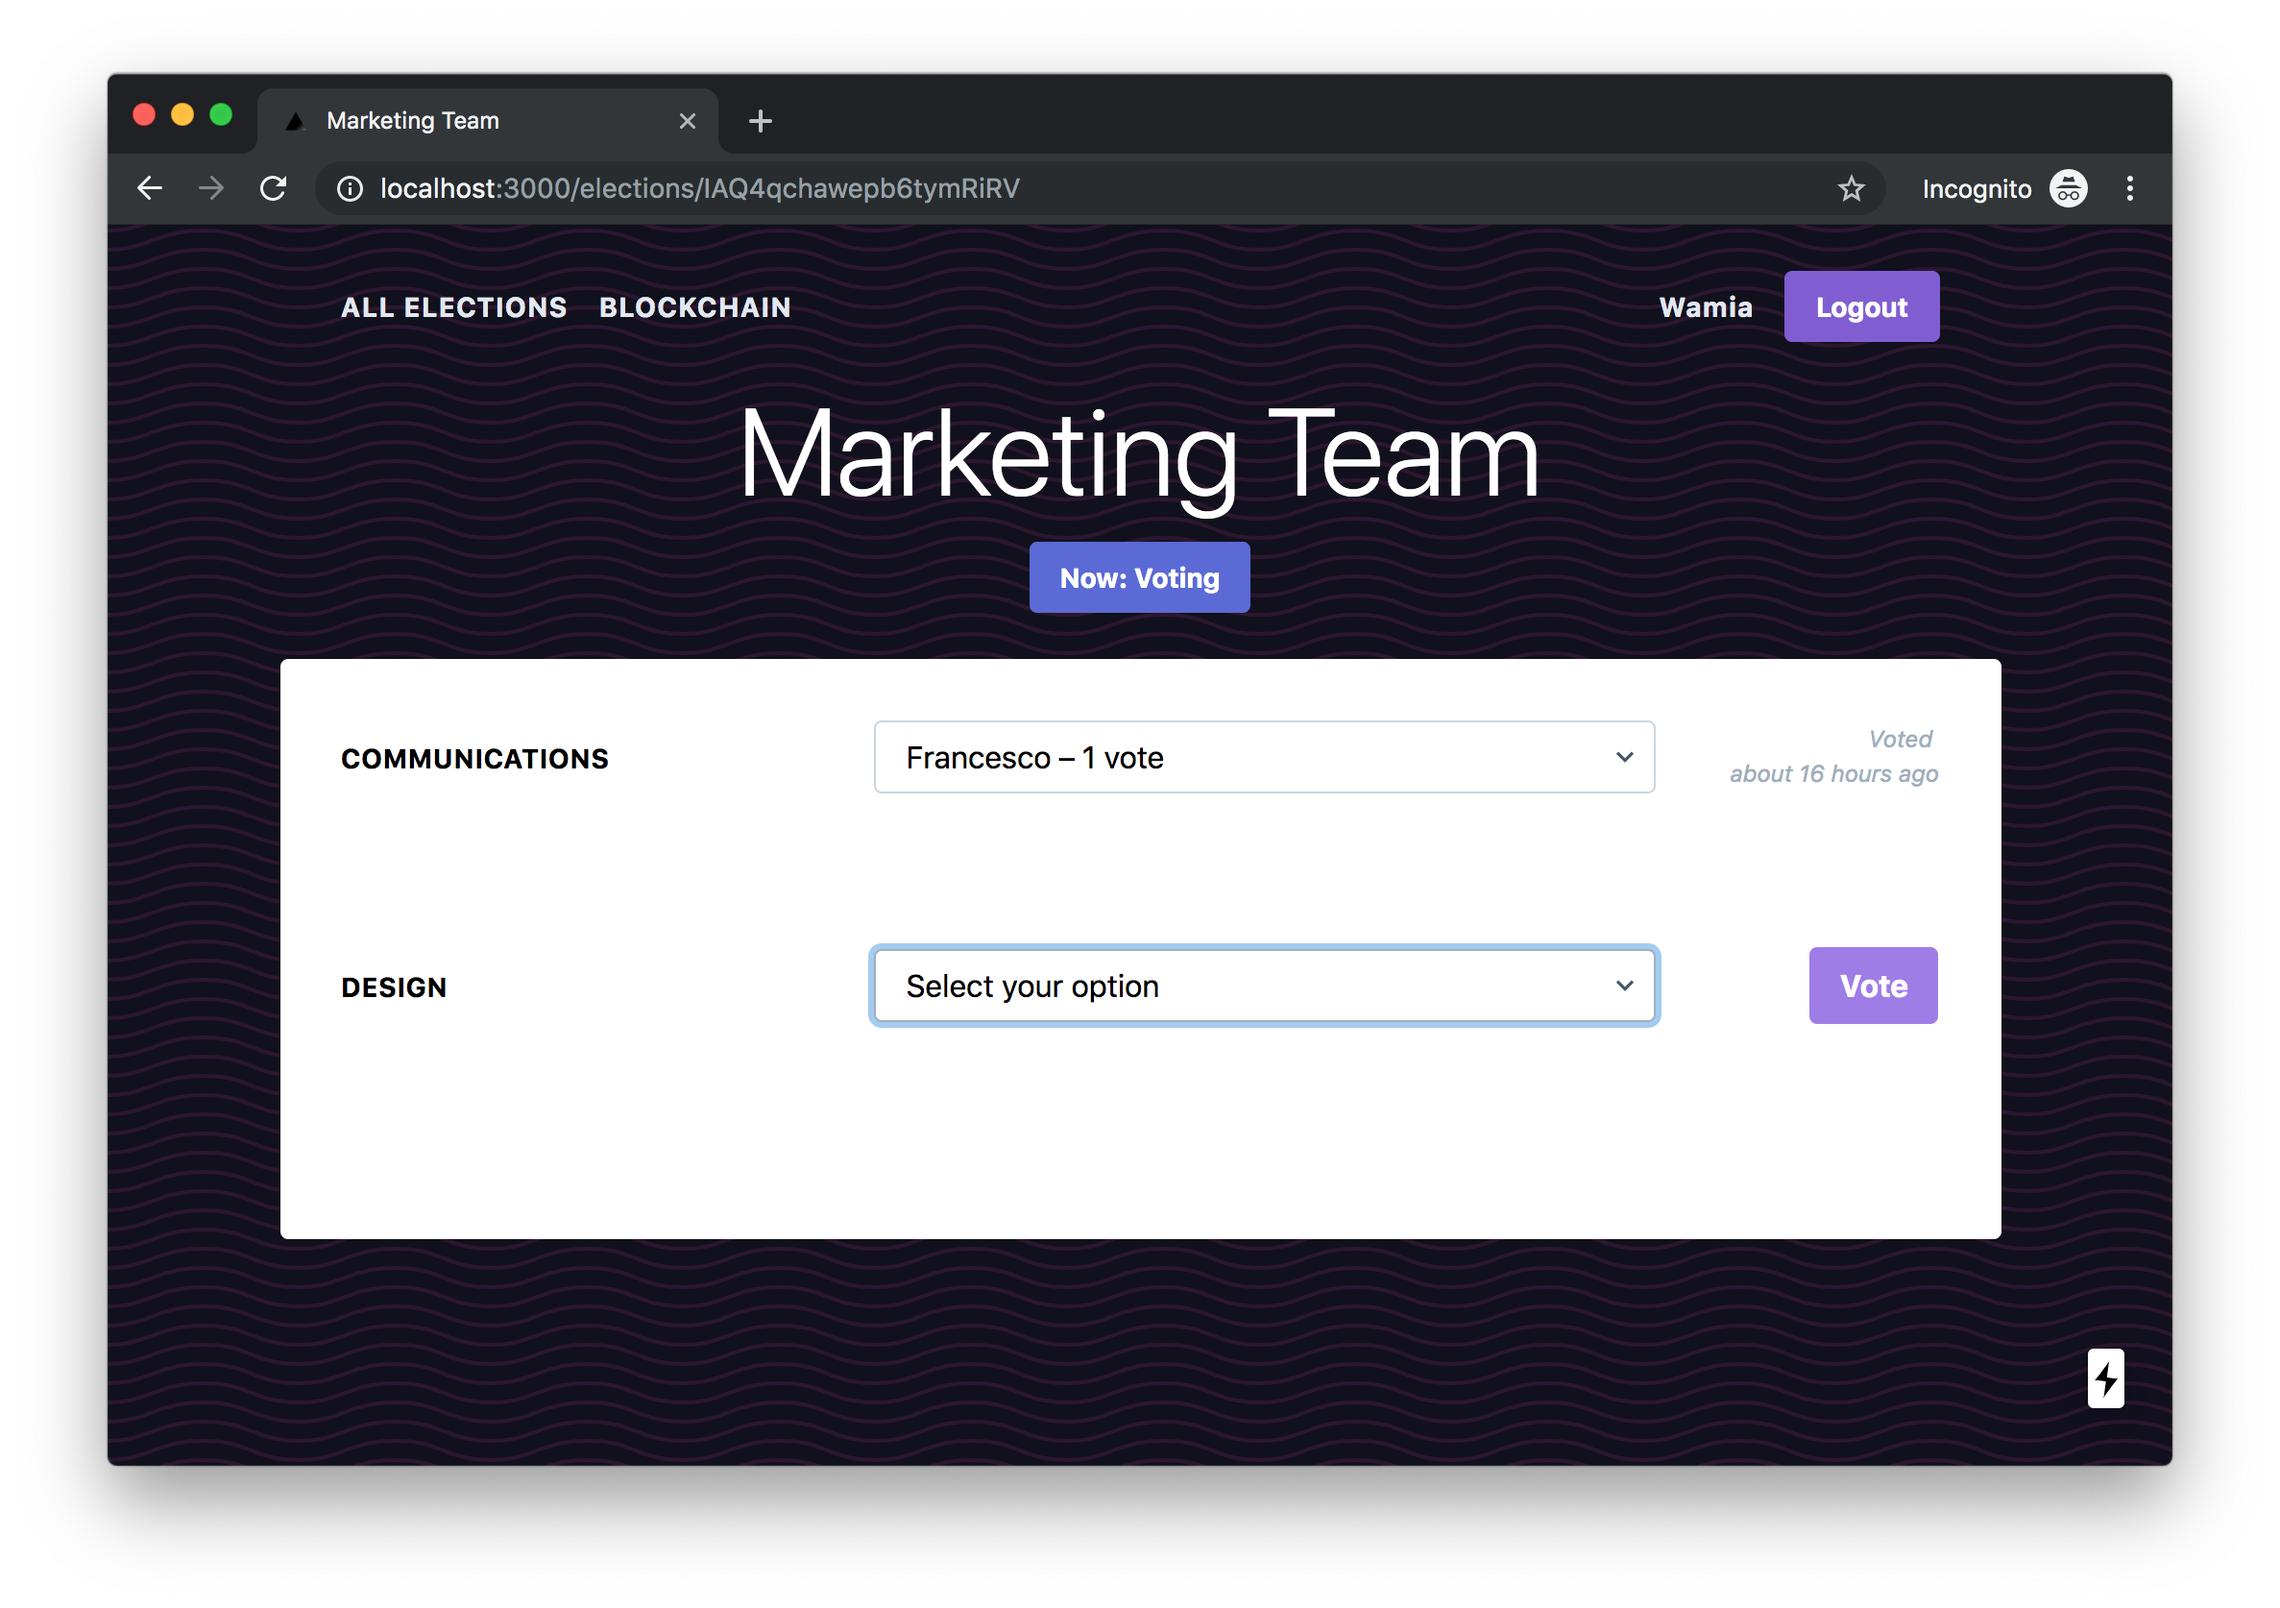
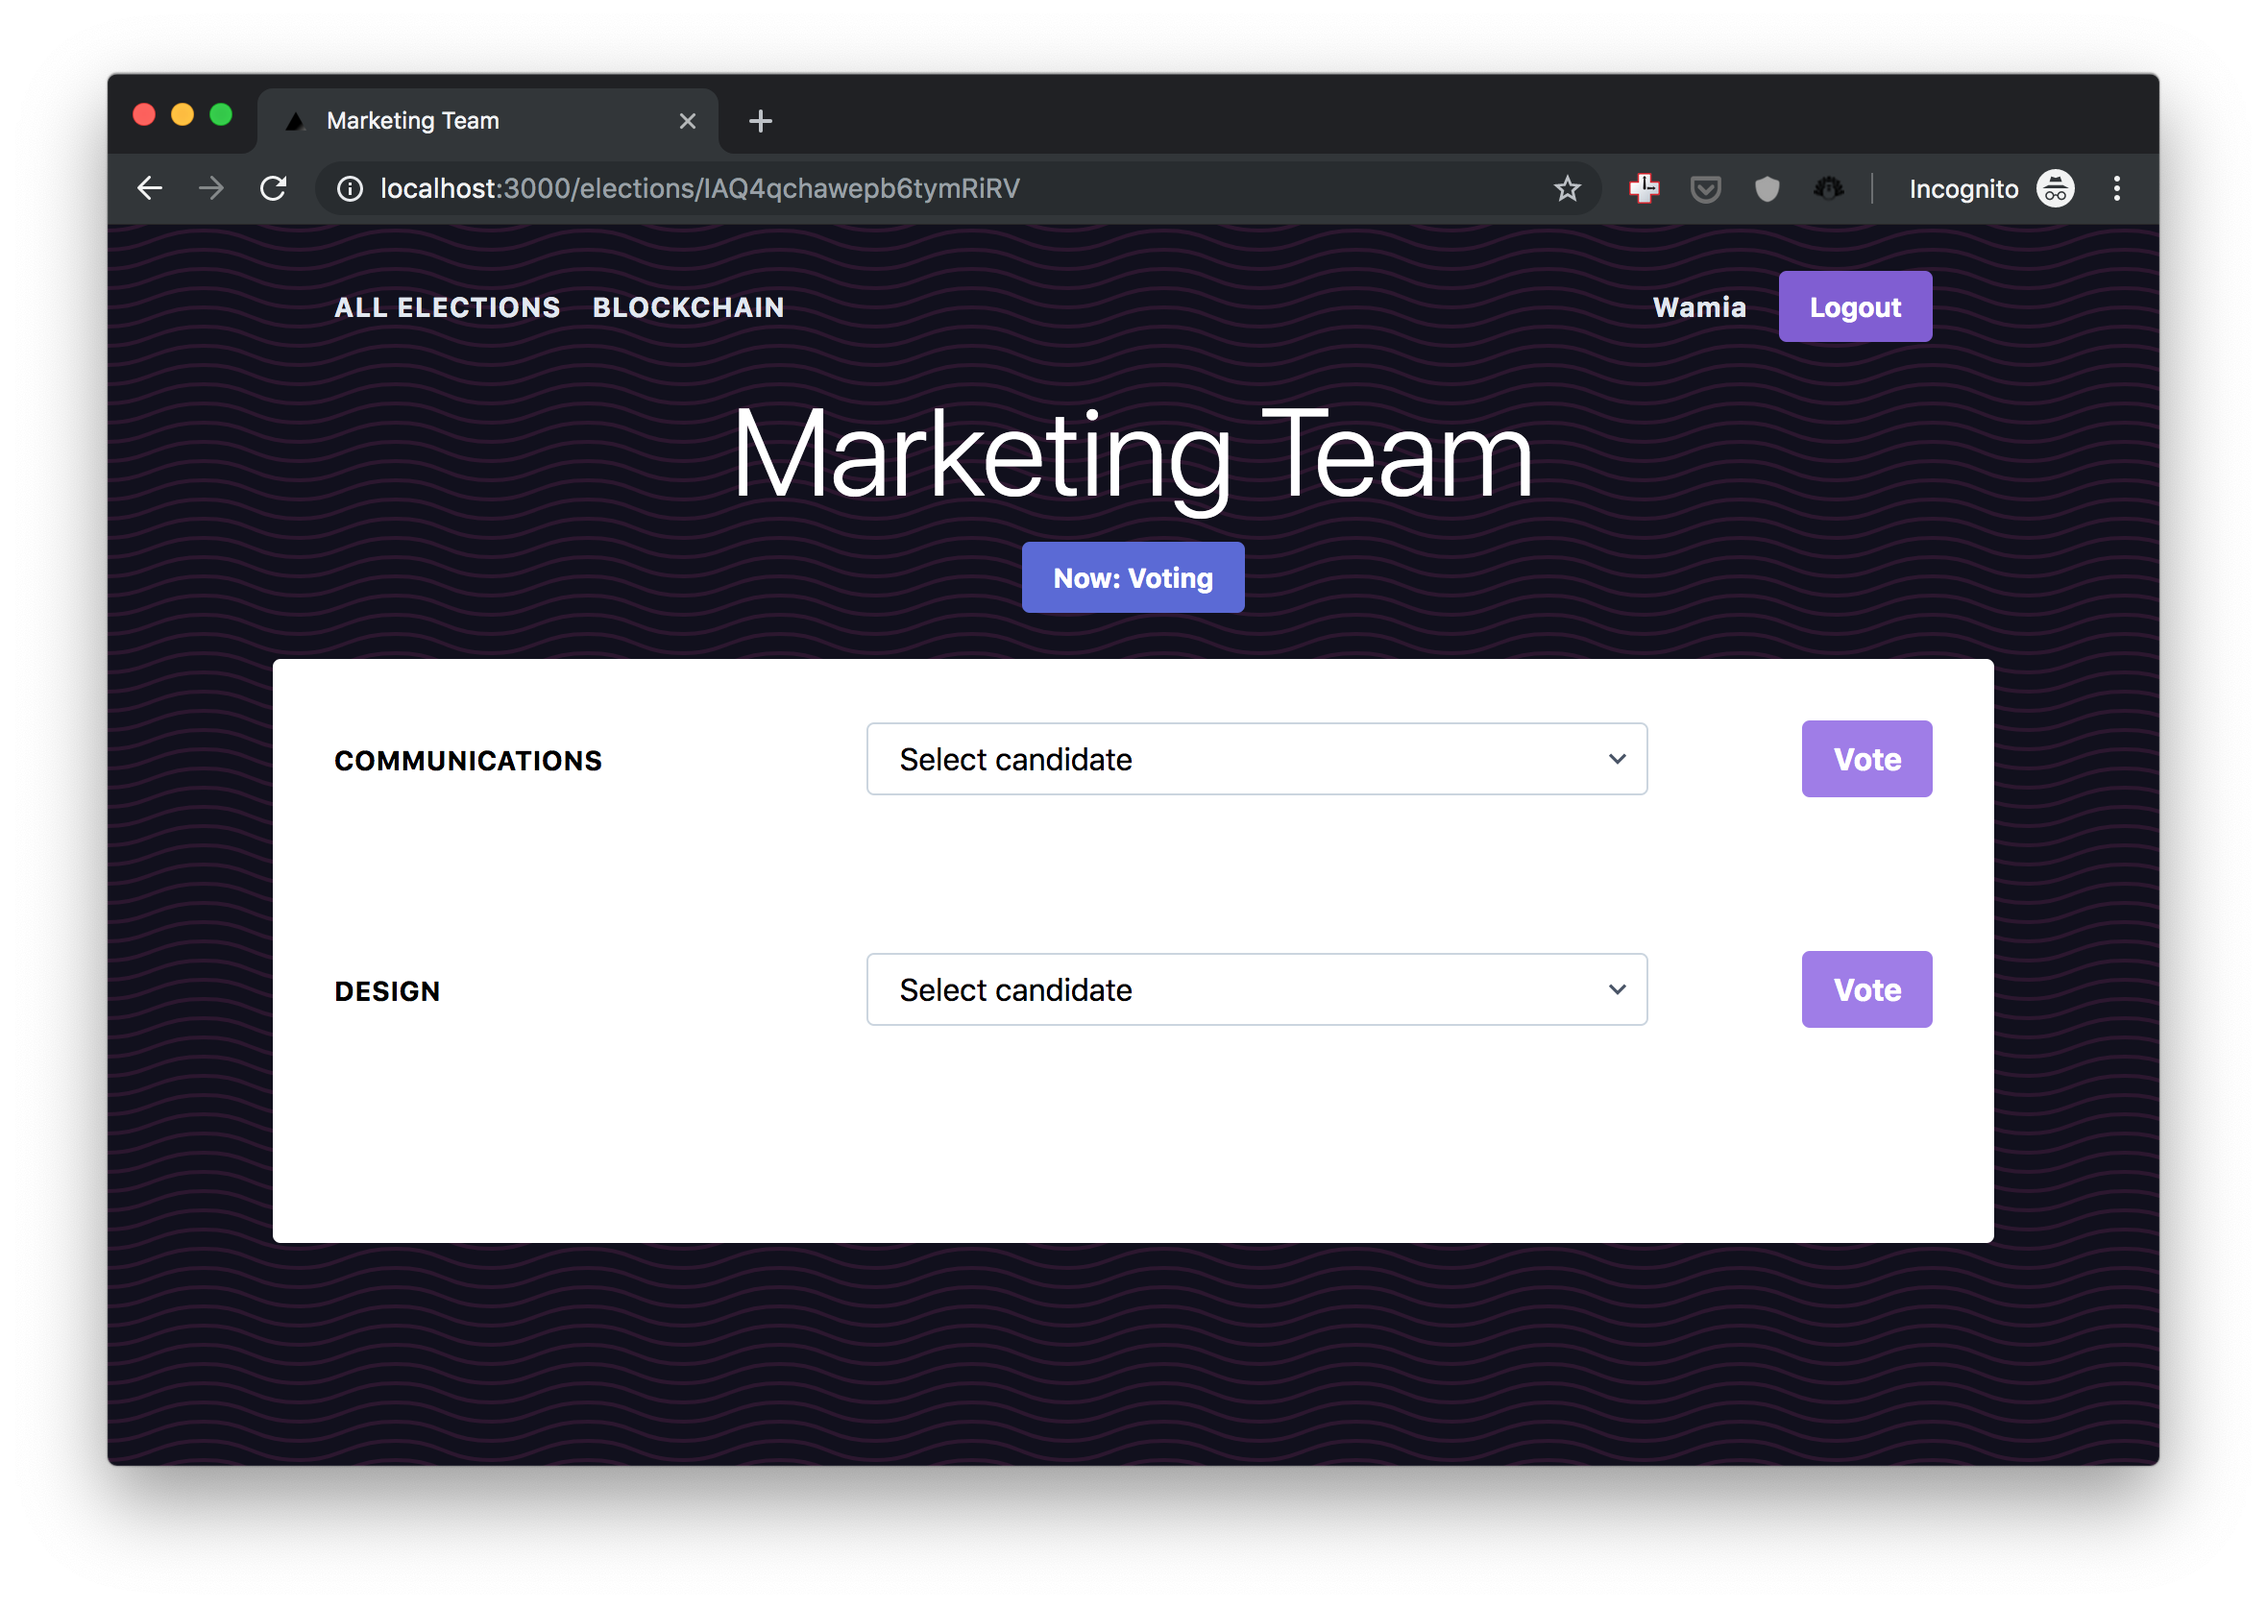
Fix label and retake screenshots

diff --git a/components/VoteForUser.tsx b/components/VoteForUser.tsx
@@ -63,7 +63,7 @@ const VoteForUser = ({ options, position, electionId }: Props) => {
           className="block appearance-none w-full bg-white border border-gray-400 hover:border-gray-500 px-4 py-2 pr-8 rounded leading-tight focus:outline-none focus:shadow-outline"
         >
           <option value="default" disabled>
-            Select your option
+            Select candidate
           </option>
 
           {options.map(user => {
